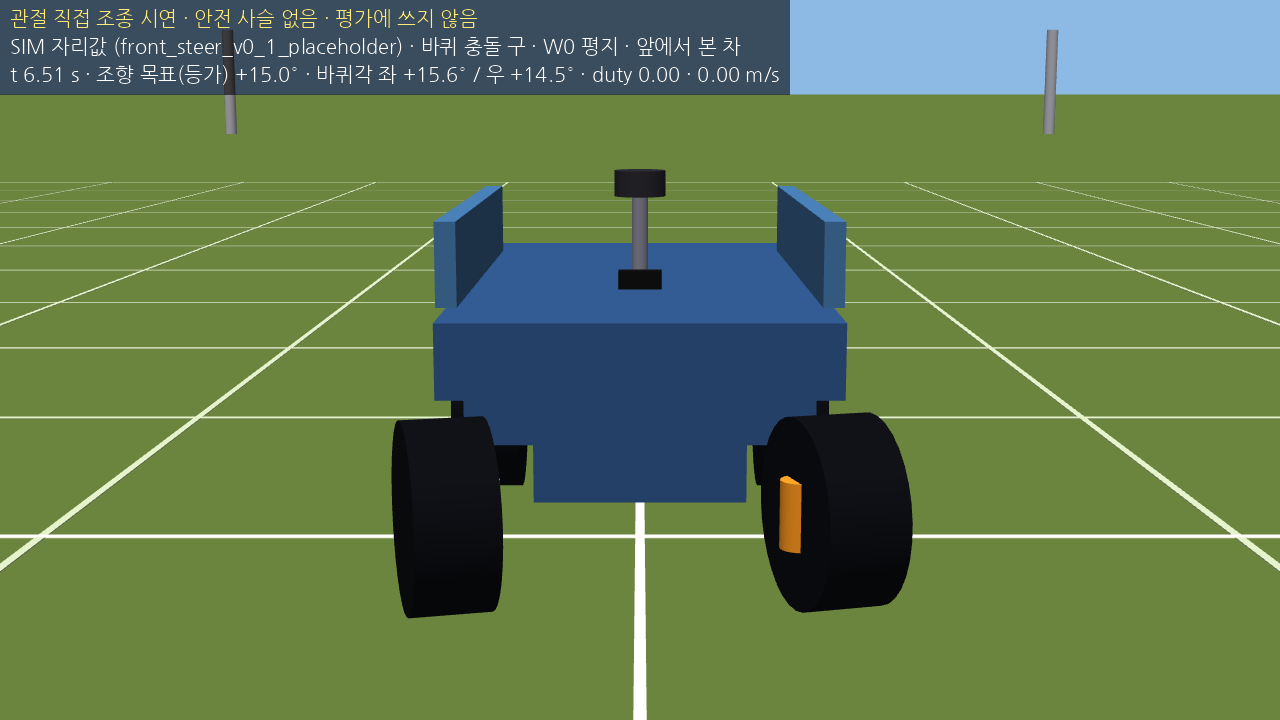
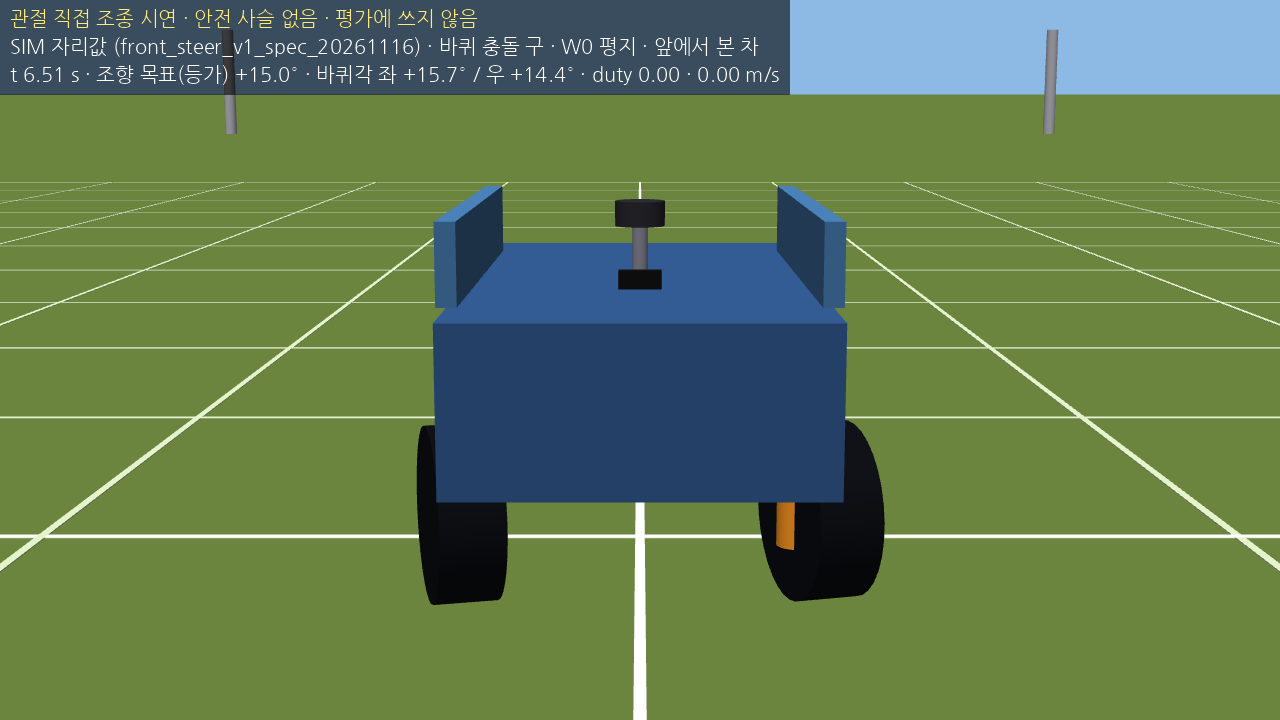
Replace the rover model pictures with the measured profile and add the SIM drag steering picture
The five rover pictures of docs/assets/rover/ now come from steering.gz_views --profile
front_steer_v1_spec_20261116 on image ubts-steer-sim:wf12 (2026-11-16): measured wheelbase 0.657 m, track
0.527 m, wheels 0.26 x 0.095 m, steering limit 20 deg, LiDAR 0.21 m behind the front axle; body box, camera
and mass are still placeholders. The recipes keep their names and outputs; ASSETS.json records the new
sources and the visual checks, the 2026-11-13 pictures stay in git history.

New asset sim_dashboard_steer_drag: the SIM dashboard steering panel (copy feb4600) while dragging the
steering bar to 6.5 deg left with W held, captured on the user stack (not a judgement).

Camera and LiDAR pictures are not replaced: captures on wf12 look the same (the camera mount is unchanged,
the 0.05 m lower scan plane shows the same trunk rows).

diff --git a/tools/steer_sim/make_assets.py b/tools/steer_sim/make_assets.py
@@ -37,6 +37,12 @@ SIM_TAG = '[SIM · 자리값]'
 GZ_VIEWS = ('steering.gz_views (Gazebo 정지 장면, 이미지 ubts-steer-sim:wf4c, 프로필 front_steer_v0_1_placeholder, '
             '2026-11-13, 그림 위 띠는 gz_views가 넣은 조건 표시)')
 W0 = 'gsim_final_20261113/media/gz_views/views_w0/run/stills/'
+# The rover model pictures follow the measured profile since 2026-11-16 (decision R91): gz_views --profile, image wf12.
+GZ_VIEWS_V1 = ('steering.gz_views --profile steering/profiles/front_steer_v1_spec_20261116.yaml (Gazebo 정지 장면, 이미지 '
+               'ubts-steer-sim:wf12, 프로필 front_steer_v1_spec_20261116, 2026-11-16, 그림 위 띠는 gz_views가 넣은 조건 '
+               '표시). 2026-11-13 판(프로필 v0.1, wf4c)은 이 파일의 git 이력에 있다')
+W0_V1 = 'sim_stack_realdims_20261116/media/gz_views/views_w0/run/stills/'
+UI_V1 = 'sim_stack_realdims_20261116/shots/'
 W1 = 'gsim_final_20261113/media/gz_views/views_w1/run/stills/'
 FINAL_N3 = 'gsim_final_20261113/sessions/s2a_nominal_3/media/cam_follow/frames'
 FINAL_UI = 'gsim_final_20261113/sessions/s2b_ui2/browser/'
@@ -54,19 +60,25 @@ TOP_VIEW = ('tools/steer_sim/gsim_media.py frames %s (위에서 본 그림, matp
 CAMERA_BODY_CROP = 58 / 360
 
 RECIPES = [
-    dict(name='rover_oblique', out='docs/assets/rover/rover_oblique.png', op='png', source=W0 + 'straight_model_oblique.png',
-         made_by=GZ_VIEWS,
-         caption='Gazebo 조향 차량 모델을 비스듬히 본 모습. 차체 상자, 앞바퀴 조향 링크, LiDAR(기둥 위 원통), 카메라(앞 검은 상자). '
-                 '치수·질량은 프로필 v0.1의 자리값'),
-    dict(name='rover_side', out='docs/assets/rover/rover_side.png', op='png', source=W0 + 'straight_model_side.png',
-         made_by=GZ_VIEWS, caption='옆에서 본 모델. 휠베이스 0.76 m, 바퀴 반경 0.14 m(자리값)'),
-    dict(name='rover_top', out='docs/assets/rover/rover_top.png', op='png', source=W0 + 'straight_model_top.png',
-         made_by=GZ_VIEWS, caption='위에서 본 모델(오른쪽이 앞). LiDAR와 카메라가 차체 앞쪽 중앙에 있다'),
+    dict(name='rover_oblique', out='docs/assets/rover/rover_oblique.png', op='png',
+         source=W0_V1 + 'straight_model_oblique.png', made_by=GZ_VIEWS_V1,
+         caption='Gazebo 조향 차량 모델(프로필 front_steer_v1_spec_20261116)을 비스듬히 본 모습. 바퀴 위치·크기, 조향 한계, '
+                 'LiDAR 장착(기둥 위 원통)은 2026-11-16 측정값, 차체 상자·카메라(앞 검은 상자)·질량은 자리값'),
+    dict(name='rover_side', out='docs/assets/rover/rover_side.png', op='png', source=W0_V1 + 'straight_model_side.png',
+         made_by=GZ_VIEWS_V1,
+         caption='옆에서 본 모델. 휠베이스 0.657 m, 바퀴 지름 0.26 m(측정 2026-11-16). 차체 상자(발자국 1.22 m)는 자리값이라 '
+                 '바퀴보다 앞뒤로 길다'),
+    dict(name='rover_top', out='docs/assets/rover/rover_top.png', op='png', source=W0_V1 + 'straight_model_top.png',
+         made_by=GZ_VIEWS_V1,
+         caption='위에서 본 모델(오른쪽이 앞). 윤거 0.527 m(측정). LiDAR(원)는 앞차축 0.21 m 뒤 좌우 가운데(측정), '
+                 '카메라(검은 상자)의 위치는 자리값'),
     dict(name='rover_front_straight', out='docs/assets/rover/rover_front_straight.png', op='png',
-         source=W0 + 'straight_model_front.png', made_by=GZ_VIEWS, caption='앞에서 본 모델, 조향 0°'),
+         source=W0_V1 + 'straight_model_front.png', made_by=GZ_VIEWS_V1,
+         caption='앞에서 본 모델, 조향 0°. 바퀴 두께 0.095 m, 바퀴 바깥 폭 0.622 m(측정)'),
     dict(name='rover_front_left15', out='docs/assets/rover/rover_front_left15.png', op='png',
-         source=W0 + 'left15_model_front.png', made_by=GZ_VIEWS,
-         caption='앞에서 본 모델, 조향 목표(등가각) +15°(왼쪽). 바퀴각 좌 +15.6° / 우 +14.5°(Ackermann 비율 0.5, 자리값)'),
+         source=W0_V1 + 'left15_model_front.png', made_by=GZ_VIEWS_V1,
+         caption='앞에서 본 모델, 조향 목표(등가각) +15°(왼쪽). 바퀴각 좌 +15.7° / 우 +14.4°(Ackermann 비율은 자리값). '
+                 '바퀴 조향 한계 20°(측정), SIM 소프트 한계 16.1°'),
     dict(name='orchard_oblique', out='docs/assets/world/orchard_oblique.jpg', op='jpeg', quality=85,
          source=W1 + 'straight_orchard_oblique.png', made_by=GZ_VIEWS,
          caption='W1 원본 과수원 월드(원본 프로젝트의 생성기)를 비스듬히 본 전경. 오른쪽 아래 파란 차가 출발점에 있다'),
@@ -132,6 +144,14 @@ RECIPES = [
          label='열 끝 다가가기와 정지 · wf6 · 3배속',
          made_by='같은 run nominal_3의 마지막 약 30 s(열 끝 정지 뒤 포함), 0.3 s마다 한 장',
          caption='열 끝에 다가가 서는 차량 카메라 화면(wf6, 약 30 s를 3배속, 360 폭). 마지막 줄기를 지나 열 끝에서 섰다(e +0.433 m)'),
+    dict(name='sim_dashboard_steer_drag', out='docs/assets/dashboard/sim_dashboard_steer_drag.png', op='png',
+         source=UI_V1 + 'ui3/steer_panel_moving_drag.png',
+         made_by='SIM 대시보드(대시보드 저장소 feb4600 사본 + SIM 확장, 이미지 wf12, 측정 치수 프로필, SIM 시계)의 Rover Control '
+                 '조향 패널을 Chrome(playwright)으로 찍은 것. 조종 활성화 뒤 W 를 누른 채 막대를 왼쪽으로 끌고 있는 순간(2026-11-16, '
+                 '판정 아님)',
+         caption='SIM 대시보드의 조향 패널: 끌어서 조향 각(막대). 전진 W 를 누른 채 왼쪽 6.5°로 끈 순간(목표 6.5° / 측정 6.7°). '
+                 '놓으면 0°로 돌아온다(SIM 의 V3 브리지에서는 A/D 와 같은 램프, 서 있을 때는 한 번에 5°까지). 좌우 한계 16.1°는 '
+                 '측정 치수 프로필의 소프트 한계'),
     dict(name='sim_dashboard_live_map', out='docs/assets/dashboard/sim_dashboard_live_map.png', op='png',
          source=FINAL3_UI + 'live_map.png',
          made_by='SIM 대시보드(대시보드 저장소 a92cfec 사본 + SIM 확장, 이미지 wf6, SIM 시계)의 지도 화면을 Chrome(playwright)으로 '
